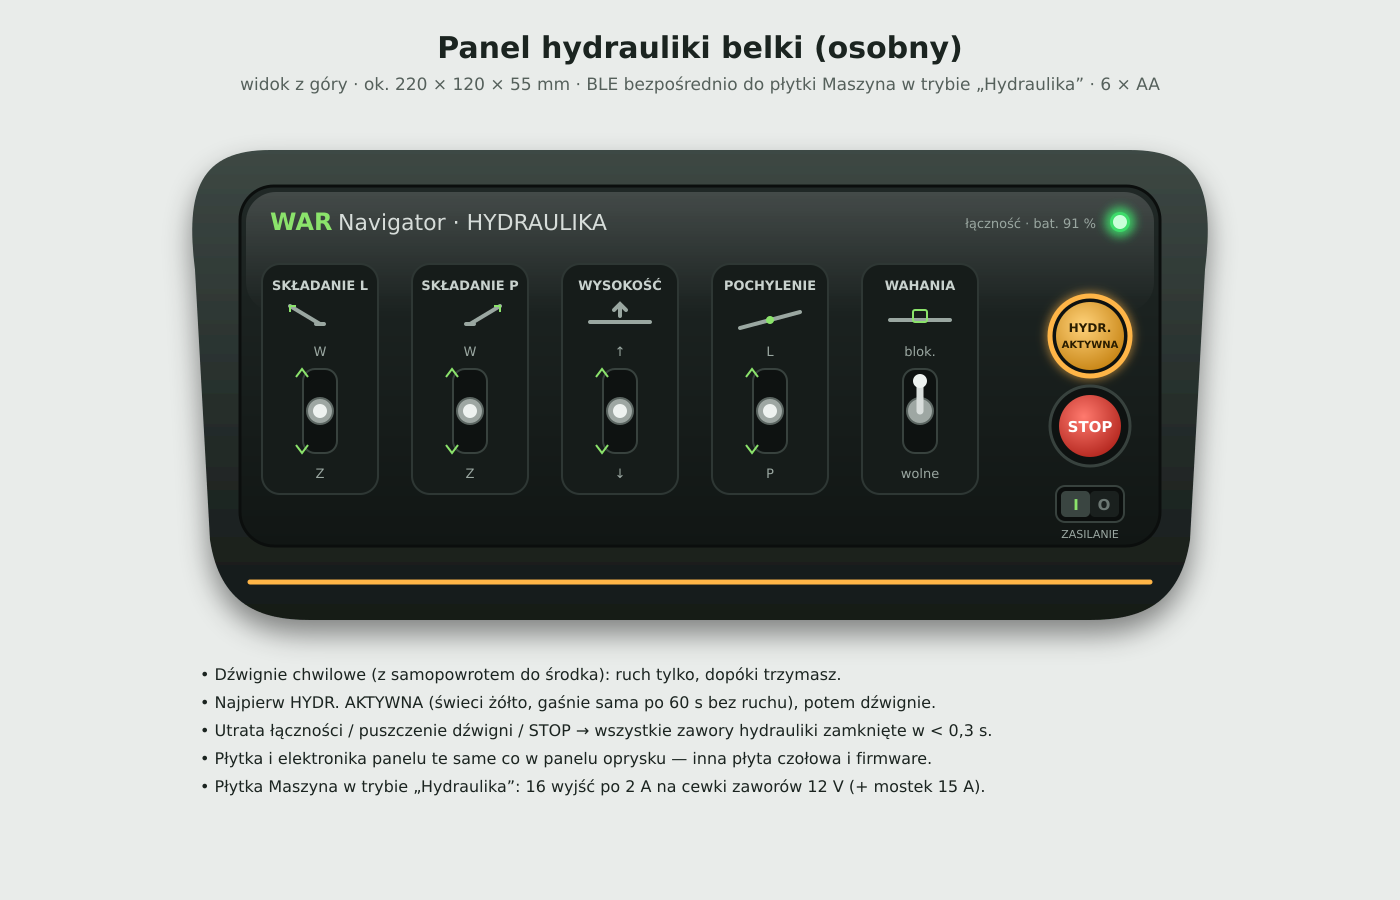
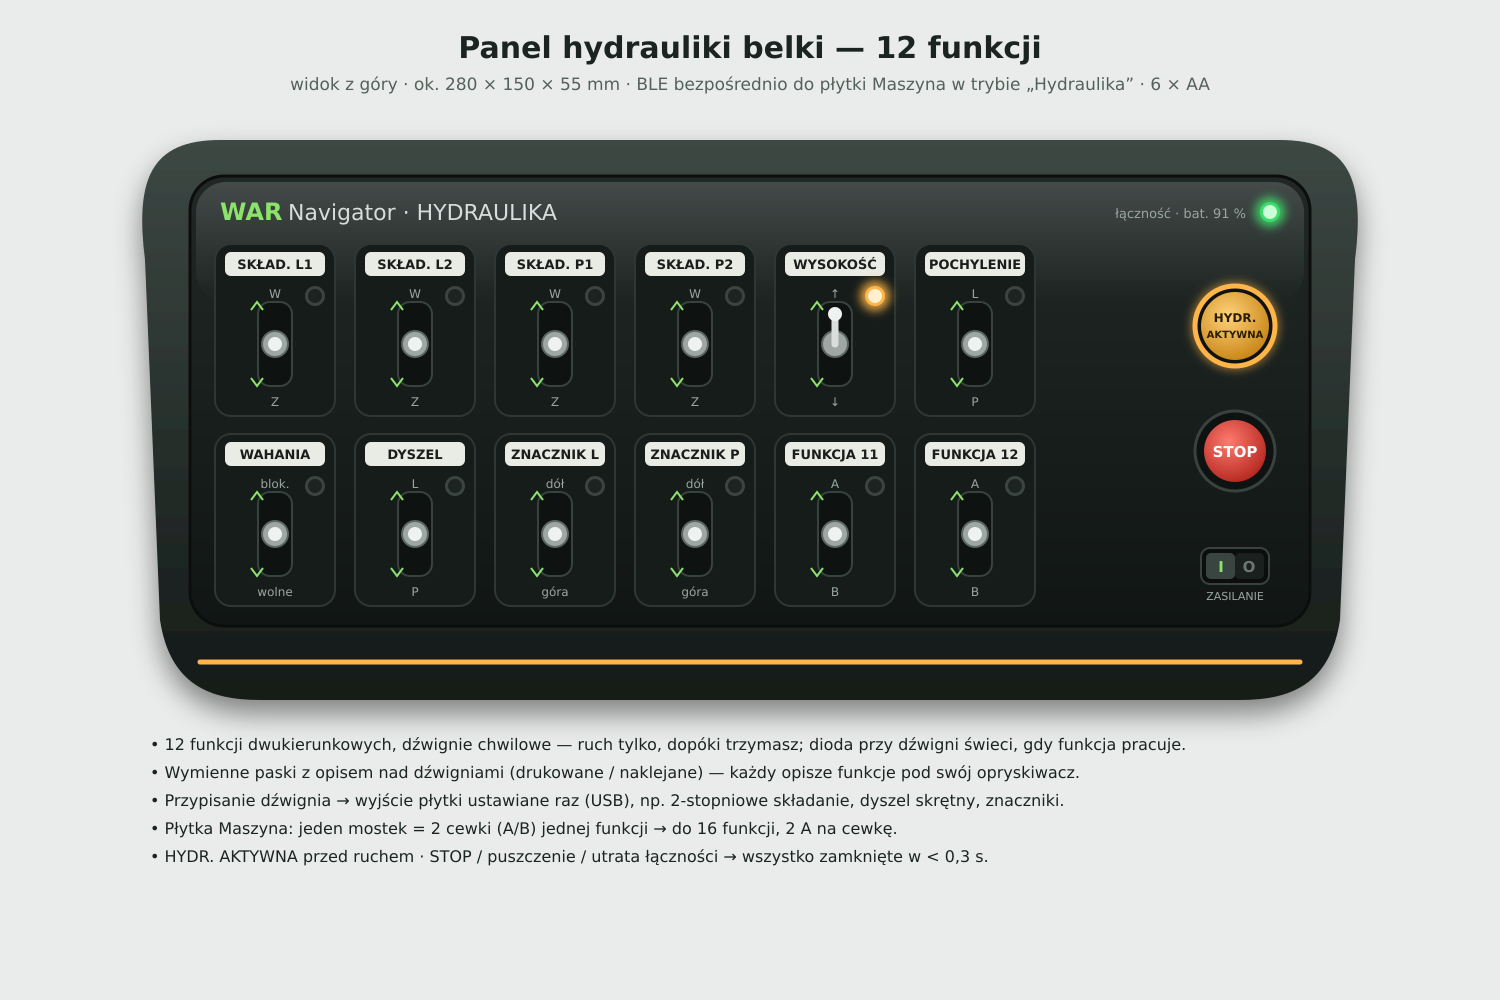
Panel hydrauliki: 12 funkcji dwukierunkowych z diodami i wymiennymi opisami [skip ci]

Changed region(s): [[0.0614, 0.0311, 0.9214, 0.9022]]

diff --git a/hardware/hydraulika/README.md b/hardware/hydraulika/README.md
@@ -17,19 +17,15 @@ Płytka Maszyna ma 16 wyjść po 2 A (pełne mostki, diagnostyka) + mostek 15 A 
 hydrauliki 12 V (zwykle 1,5–2 A). **Do sprawdzenia w konkretnym opryskiwaczu:** prąd cewek; większe — na mostek 15 A
 albo przez przekaźnik.
 
-## Funkcje (pierwsza wersja)
+## Funkcje — 12 dźwigni dwukierunkowych
 
-| Dźwignia (chwilowa, samopowrót do środka) | Wyjścia |
-|---|---|
-| Składanie lewe: wewnątrz / zewnątrz | 2 |
-| Składanie prawe: wewnątrz / zewnątrz | 2 |
-| Wysokość belki: góra / dół | 2 |
-| Pochylenie: lewo / prawo | 2 |
-| Wahania: blokada / wolne (stała, nie chwilowa) | 1–2 |
-| Zawór główny hydrauliki (otwierany przy każdym ruchu) | 1 |
+Przykładowe przypisanie (wymienne paski z opisem — każdy ustawia pod swój opryskiwacz):
+składanie L1, L2, P1, P2 (belka 2‑stopniowa), wysokość, pochylenie, blokada wahań, dyszel skrętny, znacznik L, znacznik P,
+funkcja 11, funkcja 12. Przy każdej dźwigni dioda — świeci, gdy funkcja pracuje.
 
-Razem ~10–11 wyjść z 16 — zapas na znacznik pianowy, rozkładanie znaczników, mieszadło hydrauliczne itp.
-Przypisanie wyjść i czasy (np. opóźnienie zaworu głównego) ustawiane w firmware płytki — opis w etapie 23b.
+**Wyjścia płytki Maszyna:** jeden mostek DRV8962 ma dwa półmostki — każdy zasila jedną cewkę (A albo B) jednej funkcji
+(cewki do wspólnej masy). 16 mostków = **do 16 funkcji dwukierunkowych (32 cewki)**, 2 A na cewkę; panel ma 12 dźwigni,
+4 mostki zapasu (np. zawór główny hydrauliki, funkcje stałe). Przypisanie dźwignia → mostek ustawiane raz przez USB.
 
 ## Bezpieczeństwo (najważniejsze)
 

diff --git a/ROADMAP.md b/ROADMAP.md
@@ -62,7 +62,7 @@ Kolejność (jeden etap na przebieg). Terminal w Navigatorze najpierw działa z 
   - [ ] 22c. Obudowa (OpenSCAD/CadQuery → STL).
   - [ ] 22d. Firmware panelu + BLE w płytce Maszyna (PGN 162/163) + Navigator (parowanie, bateria, „panel niedostępny”).
 - [ ] 23. **Hydraulika belki — osobny panel** (decyzja właściciela 2026-11-20): sterowanie tylko panelem + płytką (bez Navigatora), płytka wykonawcza = płytka Maszyna w trybie „Hydraulika”; panel z własną płytką pod obudowę (wspólny schemat bloków i firmware z panelem oprysku). Opis: hardware/hydraulika/README.md.
-  - [x] 23a. Specyfikacja i wizualizacja (składanie L/P, wysokość, pochylenie, wahania; dźwignie chwilowe, HYDR. AKTYWNA, zabezpieczenie 0,3 s).
+  - [x] 23a. Specyfikacja i wizualizacja: 12 dźwigni chwilowych dwukierunkowych z diodami i wymiennymi opisami (składanie 2‑stopniowe L/P, wysokość, pochylenie, wahania, dyszel, znaczniki, 2 wolne), HYDR. AKTYWNA, zabezpieczenie 0,3 s; płytka Maszyna do 16 funkcji (mostek = 2 cewki).
   - [ ] 23b. Firmware płytki Maszyna — tryb „Hydraulika”.
   - [ ] 23c. PCB panelu hydrauliki pod jego obudowę (schemat bloków z 22b) + firmware panelu w wersji hydraulika + obudowa.
 
